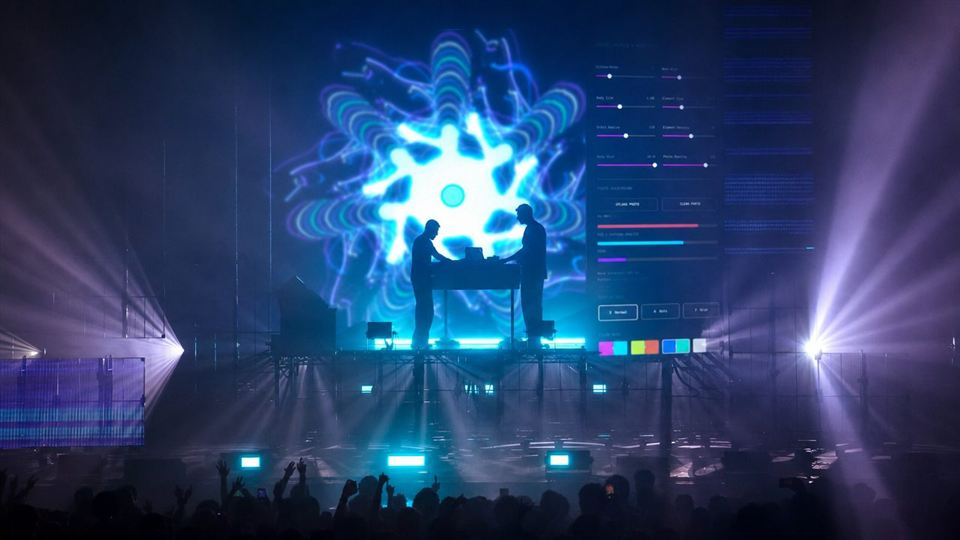
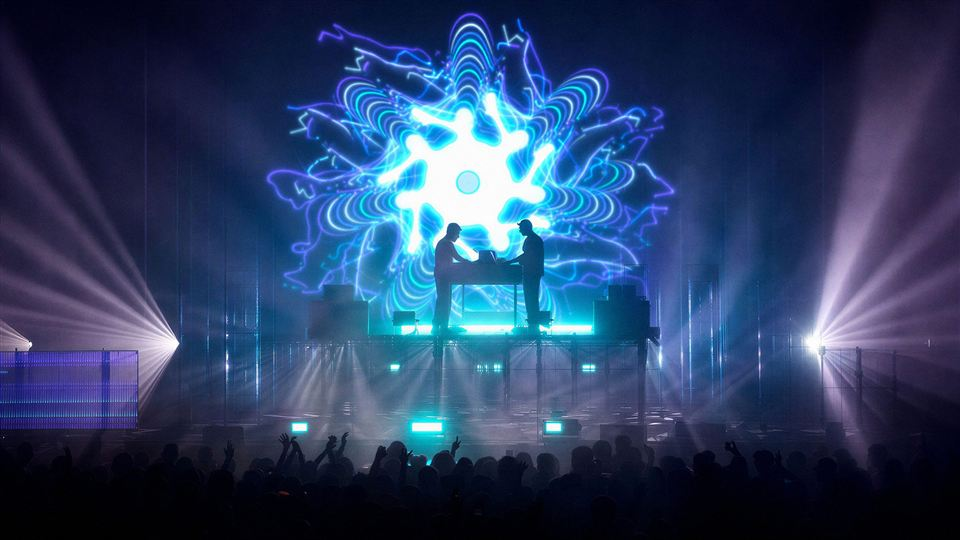
Sonar: Visual Stage Design replaces the old stage visual as the lead image (D1, D2)
New render compressed to MY WORK/Sonar/press (6.1MB PNG -> 398KB JPG, 2400x1350); the old stage PNG is skipped in build-assets.ps1. Assets, media.js and the D2 thumbnail regenerated.

diff --git a/media.js b/media.js
@@ -99,7 +99,7 @@ const MEDIA = {
     { src: 'assets/work/planting-pen/12.jpg', w: 1264, h: 848 },
   ],
   'sonar': [
-    { src: 'assets/work/sonar/01.jpg', w: 1280, h: 720 },
+    { src: 'assets/work/sonar/01.jpg', w: 2400, h: 1350 },
     { src: 'assets/work/sonar/02.jpg', w: 1376, h: 768 },
     { src: 'assets/work/sonar/03.jpg', w: 1280, h: 720 },
     { type: 'video', src: 'assets/work/sonar/04.mp4', poster: 'assets/work/sonar/04-poster.jpg', w: 1280, h: 720 },

diff --git a/prompt/requirements.md b/prompt/requirements.md
@@ -117,3 +117,4 @@
 | `3ba0ce2` | Restaurant：平面图大图显示，入口和室外并列 |
 | `c0d660a` | Code For Fun 展会大墙和街头海报大图显示（原位置）；`big` 改为在图集原位置全宽显示 |
 | `aecb598` | NEXT WORK 不触碰时不透明度 60% |
+| （本次） | Sónar 封面换成 Visual Stage Design |
